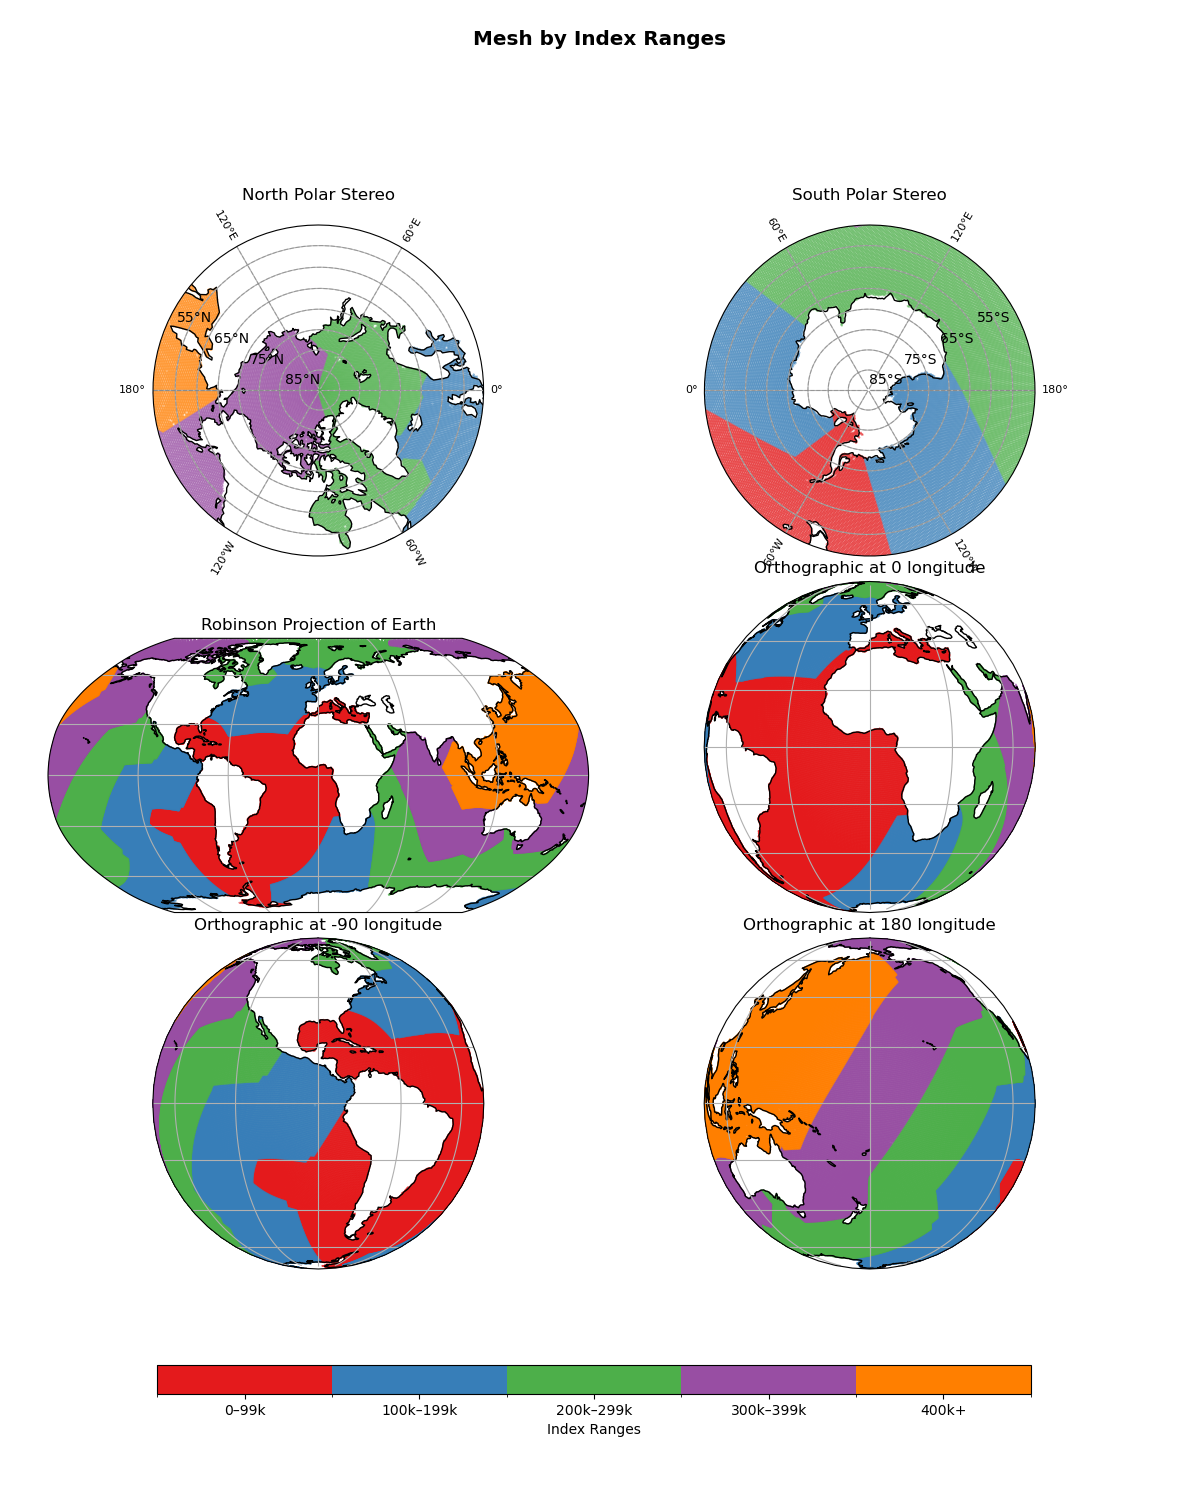
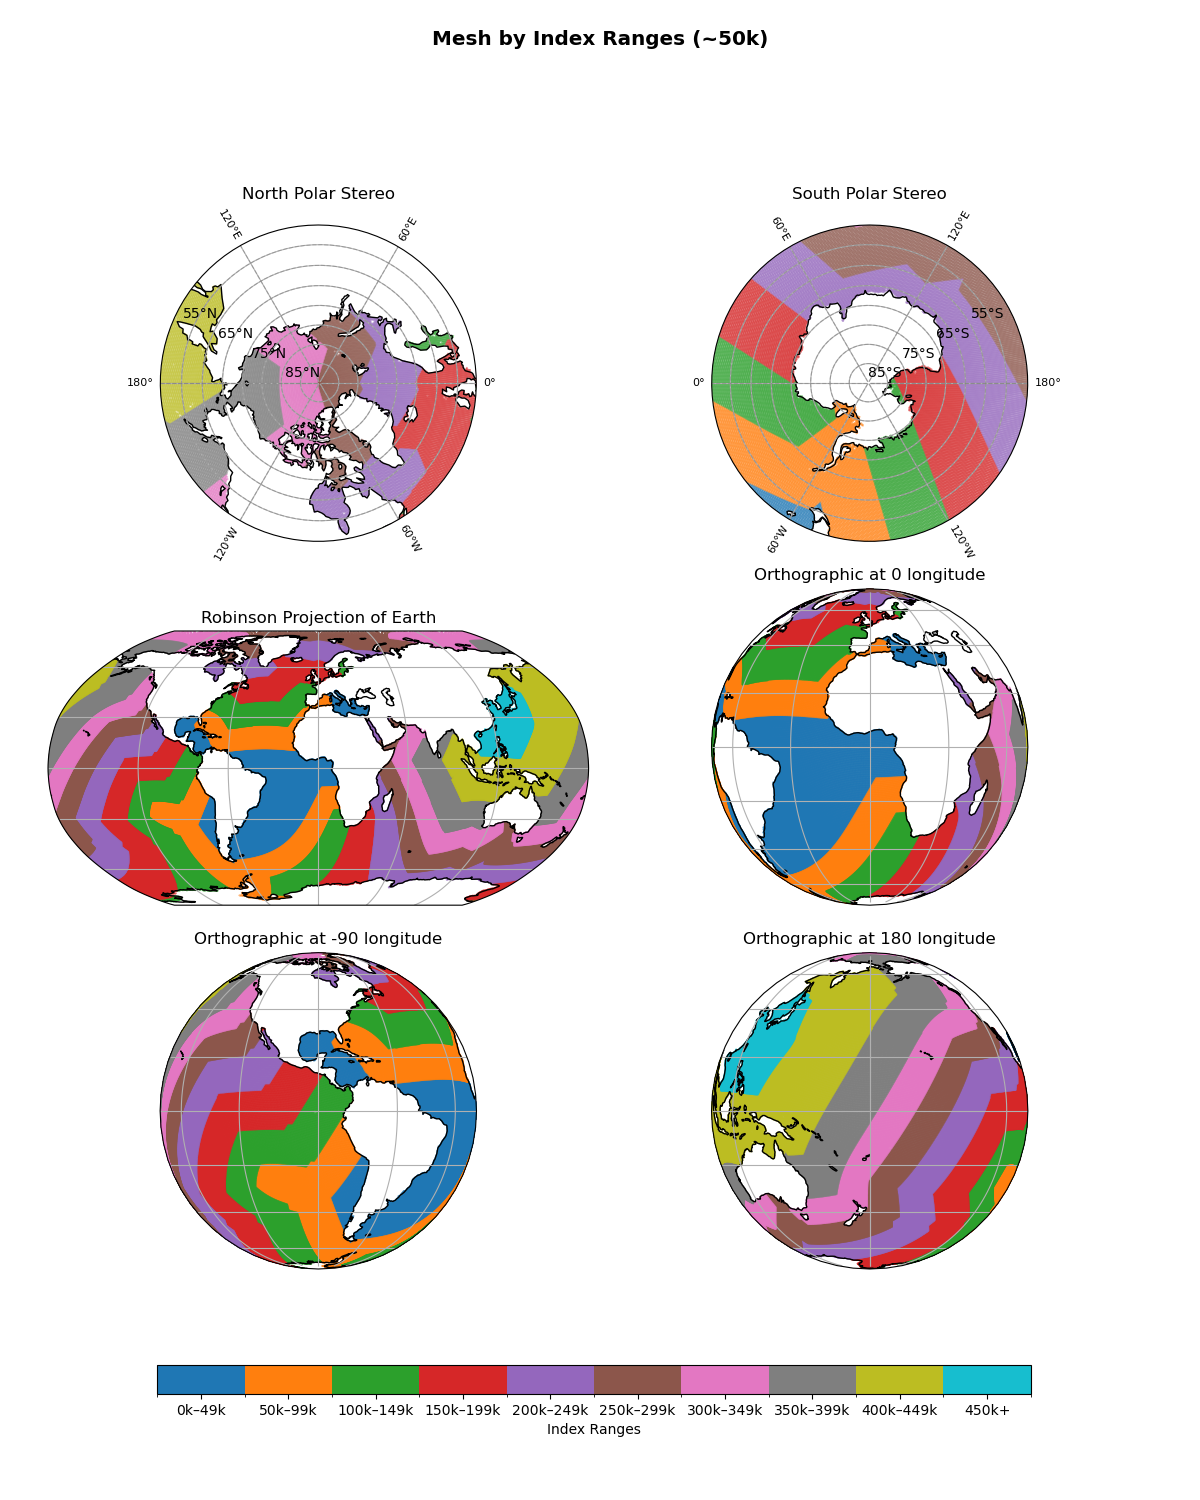
more bins for mesh color-coded map

diff --git a/MAP_ANIMATION_GENERATION/map_gen_utility_functions.py b/MAP_ANIMATION_GENERATION/map_gen_utility_functions.py
@@ -15,6 +15,7 @@ import matplotlib.path as mpath
 import matplotlib.pyplot as plt     # For plotting
 from matplotlib.colors import LinearSegmentedColormap
 from matplotlib.colors import ListedColormap, BoundaryNorm
+from matplotlib.cm import get_cmap
 
 # Cartopy for map features, like land and ocean
 import cartopy.crs as ccrs
@@ -342,45 +343,47 @@ def map_all_lats_lons_gradient_by_index(fig, latCell, lonCell, northMap, southMa
     return northPoleScatter, southPoleScatter, plateCarScatter, orthoMapScatter, robinMapScatter, rotPolMapScatter
 
 def map_all_lats_lons_binned_by_index(fig, latCell, lonCell, northMap, southMap, plateCar, orthoMap, robinMap, rotPolMap, dot_size=DOT_SIZE):
-    """ Map points with discrete color bins based on index range. """
+    """ Map points with discrete color bins based on index range (~50k per bin). """
 
     # Create global index array
     all_indices = np.arange(len(latCell))
 
-    # Define bin boundaries and colors
-    boundaries = [0, 100000, 200000, 300000, 400000, len(latCell)]
-    colors = ["#e41a1c", "#377eb8", "#4daf4a", "#984ea3", "#ff7f00"]  # 5 distinct bins/colors
+    # Define bin size and calculate boundaries
+    bin_size = 50000
+    max_index = len(latCell)
+    boundaries = list(range(0, max_index, bin_size)) + [max_index]  # Ensure last bin includes all
+    num_bins = len(boundaries) - 1
 
+    # Generate distinct colors using a perceptually uniform colormap
+    base_cmap = get_cmap("tab20")  # or try "Set3", "nipy_spectral", etc.
+    colors = [base_cmap(i / num_bins) for i in range(num_bins)]
+    
     # Assign each index to a bin
     bin_indices = np.digitize(all_indices, boundaries) - 1  # subtract 1 to index into `colors`
+    scatter_colors = [colors[i] for i in bin_indices]
 
-    # Set up discrete colormap
+    # Set up discrete colormap and norm
     cmap = ListedColormap(colors)
     norm = BoundaryNorm(boundaries, ncolors=cmap.N)
 
-    scatter_colors = [colors[i] for i in bin_indices]
-    
-
     # Adjust margins
-    fig.subplots_adjust(bottom=0.05, top=0.85, left=0.04, right=0.95, wspace=0.02)
-    
-    # Set map extents
-    northMap.set_extent([MINLONGITUDE, MAXLONGITUDE, LAT_LIMIT, NORTHPOLE], ccrs.PlateCarree())
-    southMap.set_extent([MINLONGITUDE, MAXLONGITUDE, -LAT_LIMIT, SOUTHPOLE], ccrs.PlateCarree())
-    
-    # Add features
+    fig.subplots_adjust(bottom=0.05, top=0.85, left=0.04, right=0.95, wspace=0.02, hspace=0.15)
+
+    # Set map extents and features
+    for ax, extent in zip(
+        [northMap, southMap],
+        [[LAT_LIMIT, NORTHPOLE], [-LAT_LIMIT, SOUTHPOLE]]
+    ):
+        ax.set_extent([MINLONGITUDE, MAXLONGITUDE] + extent, ccrs.PlateCarree())
+        ax.set_boundary(make_circle(), transform=ax.transAxes)
+
     for ax in [northMap, southMap, plateCar, orthoMap, robinMap, rotPolMap]:
         add_map_features(ax)
 
-    # Round map edges
-    northMap.set_boundary(make_circle(), transform=northMap.transAxes)
-    southMap.set_boundary(make_circle(), transform=southMap.transAxes)
-
-    # Add polar labels
     add_polar_labels(northMap, hemisphere='north')
     add_polar_labels(southMap, hemisphere='south')
 
-    # Plot on all maps using binned indices
+    # Plot scatter on all maps
     scatters = []
     for ax in [northMap, southMap, plateCar, orthoMap, robinMap, rotPolMap]:
         sc = ax.scatter(lonCell, latCell,
@@ -391,7 +394,7 @@ def map_all_lats_lons_binned_by_index(fig, latCell, lonCell, northMap, southMap,
                         transform=ccrs.PlateCarree())
         scatters.append(sc)
 
-    # Create unified colorbar
+    # Colorbar
     cbar = fig.colorbar(mpl.cm.ScalarMappable(cmap=cmap, norm=norm),
                         ax=[northMap, southMap, plateCar, orthoMap, robinMap, rotPolMap],
                         orientation='horizontal',
@@ -401,15 +404,19 @@ def map_all_lats_lons_binned_by_index(fig, latCell, lonCell, northMap, southMap,
                         aspect=30,
                         location='bottom')
 
-    # Calculate bin centers for labels
-    bin_centers = [(boundaries[i] + boundaries[i+1]) / 2 for i in range(len(boundaries)-1)]
+    # Center ticks and dynamic labels
+    bin_centers = [(boundaries[i] + boundaries[i+1]) / 2 for i in range(num_bins)]
     cbar.set_ticks(bin_centers)
-    
-    cbar.set_ticklabels(['0–99k', '100k–199k', '200k–299k', '300k–399k', '400k+'])
+
+    def format_tick_label(start, end):
+        return f"{start//1000}k–{(end-1)//1000}k" if end < max_index else f"{start//1000}k+"
+
+    tick_labels = [format_tick_label(boundaries[i], boundaries[i+1]) for i in range(num_bins)]
+    cbar.set_ticklabels(tick_labels)
     cbar.set_label('Index Ranges')
 
     # Final touches
-    plt.suptitle("Mesh by Index Ranges", size="x-large", fontweight="bold")
+    plt.suptitle("Mesh by Index Ranges (~50k)", size="x-large", fontweight="bold")
     plt.savefig("mesh_color_all_binned.png")
     plt.close(fig)
 
